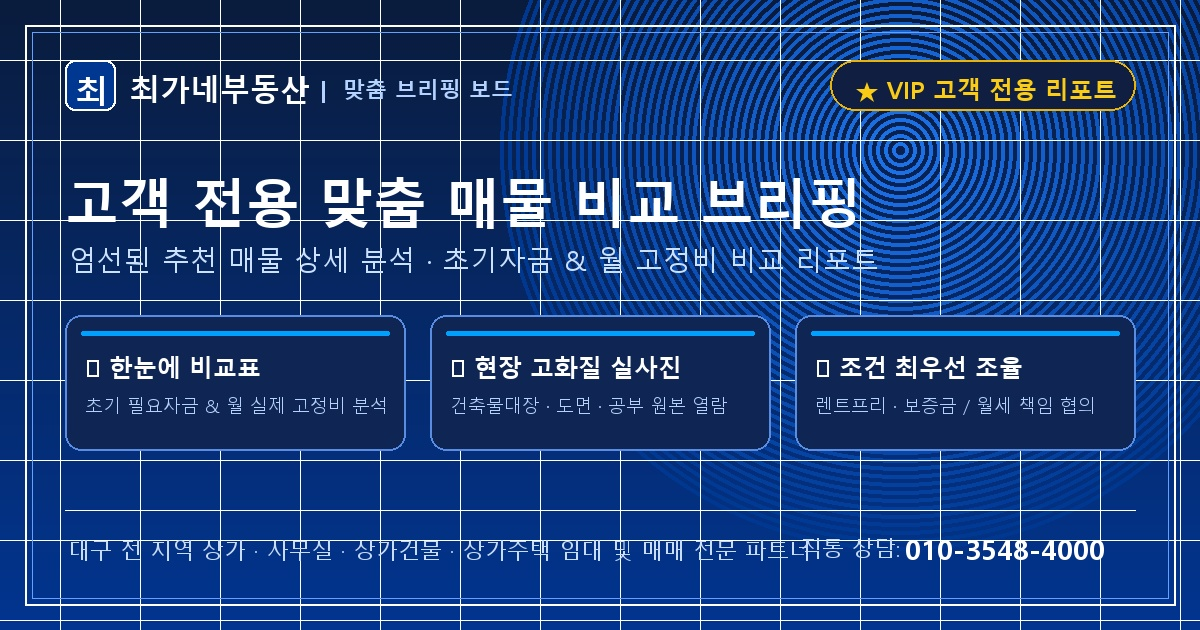
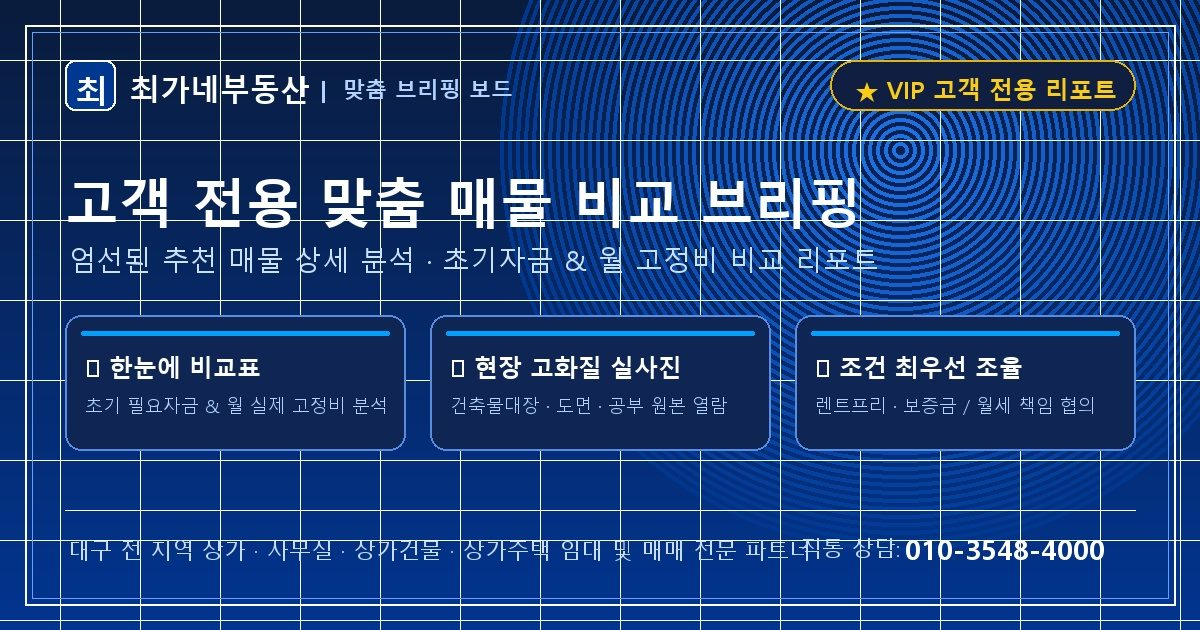
fix(og): remove noindex blocking SMS preview and optimize og image for instant mobile thumbnail

Changed region(s): [[0.6783, 0.0905, 0.9558, 0.181]]

diff --git a/briefing.html b/briefing.html
@@ -3,8 +3,9 @@
 <head>
     <meta charset="utf-8" />
     <meta name="viewport" content="width=device-width, initial-scale=1.0" />
-    <meta name="robots" content="noindex, nofollow" />
-        <title>고객 전용 맞춤 매물 브리핑 보드 | 최가네부동산</title>
+    <title>🏢 [VIP 고객 맞춤] 상가·사무실 비교 브리핑 리포트 | 최가네부동산</title>
+    <meta name="description" content="엄선된 추천 매물 상세 분석 · 초기 필요자금 및 월 실제 고정비 비교 · 공적장부·도면 · 현장 실사진을 전용 브리핑 보드에서 한눈에 확인하세요. (최가네부동산 010-3548-4000)" />
+    <meta name="robots" content="index, follow, max-image-preview:large" />
     <!-- Open Graph & Social Preview Tags for SMS / KakaoTalk / iMessage -->
     <meta property="og:type" content="website" />
     <meta property="og:site_name" content="최가네부동산 VIP 맞춤 브리핑" />
@@ -12,9 +13,12 @@
     <meta property="og:title" content="🏢 [VIP 고객 맞춤] 상가·사무실 비교 브리핑 리포트 | 최가네부동산" />
     <meta property="og:description" content="엄선된 추천 매물 상세 분석 · 초기 필요자금 및 월 실제 고정비 비교 · 공적장부·도면 · 현장 실사진을 전용 브리핑 보드에서 한눈에 확인하세요. (최가네부동산 010-3548-4000)" />
     <meta property="og:image" content="https://www.choi114.com/og_briefing.jpg" />
+    <meta property="og:image:secure_url" content="https://www.choi114.com/og_briefing.jpg" />
+    <meta property="og:image:type" content="image/jpeg" />
     <meta property="og:image:width" content="1200" />
     <meta property="og:image:height" content="630" />
     <meta property="og:image:alt" content="최가네부동산 VIP 맞춤 매물 브리핑 리포트" />
+    <link rel="image_src" href="https://www.choi114.com/og_briefing.jpg" />
     <meta name="twitter:card" content="summary_large_image" />
     <meta name="twitter:title" content="🏢 [VIP 고객 맞춤] 상가·사무실 비교 브리핑 리포트 | 최가네부동산" />
     <meta name="twitter:description" content="엄선된 추천 매물 상세 분석 · 초기 필요자금 및 월 실제 고정비 비교 · 공적장부·도면 · 현장 실사진 완비 (010-3548-4000)" />

diff --git a/api/briefing-render.js b/api/briefing-render.js
@@ -97,22 +97,30 @@ export default async function handler(req, res) {
     <!-- Dynamic Open Graph & Social Preview Tags for SMS / KakaoTalk / iMessage -->
     <title>${esc(pageTitle)}</title>
     <meta name="description" content="${esc(ogDesc)}" />
+    <meta name="robots" content="index, follow, max-image-preview:large" />
     <meta property="og:type" content="website" />
     <meta property="og:site_name" content="최가네부동산 VIP 맞춤 브리핑" />
     <meta property="og:url" content="${esc(ogUrl)}" />
     <meta property="og:title" content="${esc(ogTitle)}" />
     <meta property="og:description" content="${esc(ogDesc)}" />
     <meta property="og:image" content="${esc(ogImage)}" />
+    <meta property="og:image:secure_url" content="${esc(ogImage)}" />
+    <meta property="og:image:type" content="image/jpeg" />
     <meta property="og:image:width" content="1200" />
     <meta property="og:image:height" content="630" />
     <meta property="og:image:alt" content="${esc(ogTitle)}" />
+    <link rel="image_src" href="${esc(ogImage)}" />
     <meta name="twitter:card" content="summary_large_image" />
     <meta name="twitter:title" content="${esc(ogTitle)}" />
     <meta name="twitter:description" content="${esc(ogDesc)}" />
     <meta name="twitter:image" content="${esc(ogImage)}" />
   `;
 
-  // Replace or inject into <head>
+  // Remove any legacy tags before injecting fresh ones
+  html = html.replace(/<meta\s+name=["']robots["'][^>]*>/gi, '');
+  html = html.replace(/<meta\s+property=["']og:[^"']+["'][^>]*>/gi, '');
+  html = html.replace(/<meta\s+name=["']twitter:[^"']+["'][^>]*>/gi, '');
+  html = html.replace(/<link\s+rel=["']image_src["'][^>]*>/gi, '');
   if (html.includes('<title>')) {
     html = html.replace(/<title>[\s\S]*?<\/title>/i, ogTagsHtml.trim());
   } else {
